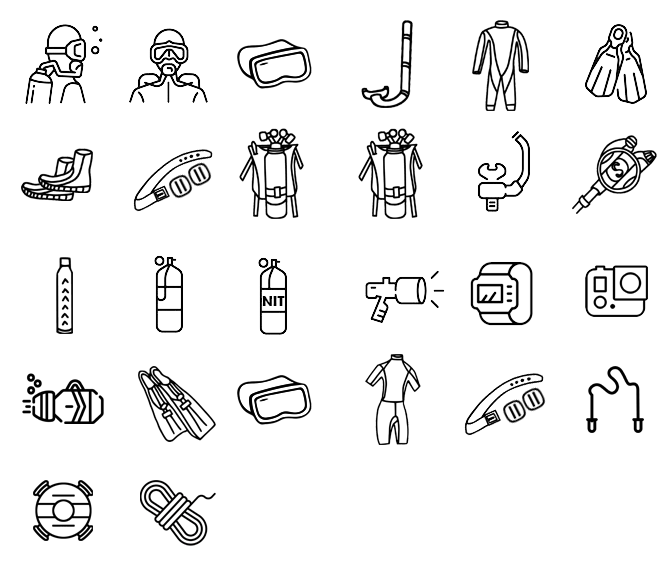
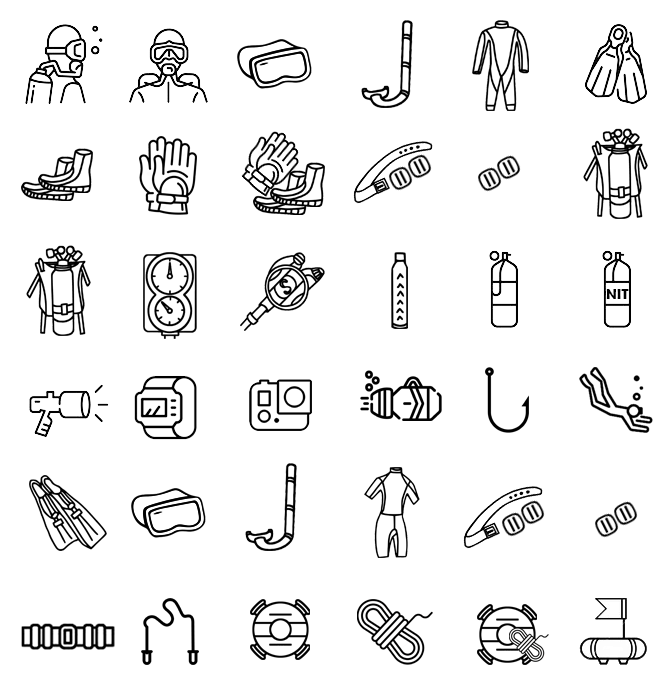
fix

diff --git a/frontend_mobile/src/components/CenterDetailPage2.vue b/frontend_mobile/src/components/CenterDetailPage2.vue
@@ -544,6 +544,49 @@
                             <i class="ico_equipt26 icon-equiptment"></i>
                             <p class="span_feature text-center">로프</p>
                         </div>
+
+
+                        <div class="ico_equipt col-3">
+                            <i class="ico_equipt27 icon-equiptment"></i>
+                            <p class="span_feature text-center">프리 벨트</p>
+                        </div>
+                        <div class="ico_equipt col-3">
+                            <i class="ico_equipt28 icon-equiptment"></i>
+                            <p class="span_feature text-center">랜야드</p>
+                        </div>
+                        <div class="ico_equipt col-3">
+                            <i class="ico_equipt29 icon-equiptment"></i>
+                            <p class="span_feature text-center">부이</p>
+                        </div>
+                        <div class="ico_equipt col-3">
+                            <i class="ico_equipt30 icon-equiptment"></i>
+                            <p class="span_feature text-center">로프</p>
+                        </div>
+
+                        <div class="ico_equipt col-3">
+                            <i class="ico_equipt31 icon-equiptment"></i>
+                            <p class="span_feature text-center">프리 벨트</p>
+                        </div>
+                        <div class="ico_equipt col-3">
+                            <i class="ico_equipt32 icon-equiptment"></i>
+                            <p class="span_feature text-center">랜야드</p>
+                        </div>
+                        <div class="ico_equipt col-3">
+                            <i class="ico_equipt33 icon-equiptment"></i>
+                            <p class="span_feature text-center">부이</p>
+                        </div>
+                        <div class="ico_equipt col-3">
+                            <i class="ico_equipt34 icon-equiptment"></i>
+                            <p class="span_feature text-center">로프</p>
+                        </div>
+                        <div class="ico_equipt col-3">
+                            <i class="ico_equipt35 icon-equiptment"></i>
+                            <p class="span_feature text-center">부이</p>
+                        </div>
+                        <div class="ico_equipt col-3">
+                            <i class="ico_equipt36 icon-equiptment"></i>
+                            <p class="span_feature text-center">로프</p>
+                        </div>
                         
                     </div>
                 </div>
@@ -1343,32 +1386,43 @@ export default {
 .icon-service {overflow: hidden;display: block;margin-left: 11px;background-image: url(/static/images/wedive_service2.png);background-repeat: no-repeat;-webkit-background-size: 270px 200px;background-size: 270px 200px;}
 
 .ico_equipt {}
-.ico_equipt1 {width: 60px;height: 63px;background-position: 0px 0px;}
-.ico_equipt2 {width: 60px;height: 63px;background-position: -56px 0px;}
-.ico_equipt3 {width: 60px;height: 63px;background-position: -112px 0px;}
-.ico_equipt4 {width: 60px;height: 63px;background-position: -168px 0px;}
-.ico_equipt5 {width: 60px;height: 63px;background-position: -224px 0px;}
-.ico_equipt6 {width: 60px;height: 63px;background-position: -280px 0px;}
-.ico_equipt7 {width: 60px;height: 63px;background-position: 0px -60px;}
-.ico_equipt8 {width: 60px;height: 63px;background-position: -56px -60px;}
-.ico_equipt9 {width: 60px;height: 63px;background-position: -112px -60px;}
-.ico_equipt10 {width: 60px;height: 63px;background-position: -168px -60px;}
-.ico_equipt11 {width: 60px;height: 63px;background-position: -222px -60px;}
-.ico_equipt12 {width: 60px;height: 63px;background-position: -280px -60px;}
-
-.ico_equipt13 {width: 60px;height: 63px;background-position: 0px -118px;}
-.ico_equipt14 {width: 60px;height: 63px;background-position: -56px -118px;}
-.ico_equipt15 {width: 60px;height: 63px;background-position: -112px -118px;}
-.ico_equipt16 {width: 60px;height: 63px;background-position: -168px -118px;}
-.ico_equipt17 {width: 60px;height: 63px;background-position: -224px -118px;}
-.ico_equipt18 {width: 60px;height: 63px;background-position: -280px -118px;}
-.ico_equipt19 {width: 60px;height: 63px;background-position: 0px -176px;}
-.ico_equipt20 {width: 60px;height: 63px;background-position: -56px -176px;}
-.ico_equipt21 {width: 60px;height: 63px;background-position: -112px -176px;}
-.ico_equipt22 {width: 60px;height: 63px;background-position: -168px -176px;}
-.ico_equipt23 {width: 60px;height: 63px;background-position: -224px -176px;}
-.ico_equipt24 {width: 60px;height: 63px;background-position: -280px -176px;}
-.icon-equiptment {overflow: hidden;display: block;margin-left: 3px;background-image: url(/static/images/wedive_equiptment2.png);background-repeat: no-repeat;-webkit-background-size: 335px 290px;background-size: 335px 290px;}
+.ico_equipt1 {width: 60px;height: 63px;background-position: 0px 3px;}
+.ico_equipt2 {width: 60px;height: 63px;background-position: -56px 3px;}
+.ico_equipt3 {width: 60px;height: 63px;background-position: -112px 3px;}
+.ico_equipt4 {width: 60px;height: 63px;background-position: -168px 3px;}
+.ico_equipt5 {width: 60px;height: 63px;background-position: -224px 3px;}
+.ico_equipt6 {width: 60px;height: 63px;background-position: -280px 3px;}
+.ico_equipt7 {width: 60px;height: 63px;background-position: 0px -54px;}
+.ico_equipt8 {width: 60px;height: 63px;background-position: -56px -54px;}
+.ico_equipt9 {width: 60px;height: 63px;background-position: -112px -54px;}
+.ico_equipt10 {width: 60px;height: 63px;background-position: -168px -54px;}
+.ico_equipt11 {width: 60px;height: 63px;background-position: -222px -56px;}
+.ico_equipt12 {width: 60px;height: 63px;background-position: -280px -54px;}
+.ico_equipt13 {width: 60px;height: 63px;background-position: 0px -110px;}
+.ico_equipt14 {width: 60px;height: 63px;background-position: -56px -110px;}
+.ico_equipt15 {width: 60px;height: 63px;background-position: -112px -110px;}
+.ico_equipt16 {width: 60px;height: 63px;background-position: -168px -110px;}
+.ico_equipt17 {width: 60px;height: 63px;background-position: -224px -110px;}
+.ico_equipt18 {width: 60px;height: 63px;background-position: -280px -110px;}
+.ico_equipt19 {width: 60px;height: 63px;background-position: 0px -168px;}
+.ico_equipt20 {width: 60px;height: 63px;background-position: -56px -170px;}
+.ico_equipt21 {width: 60px;height: 63px;background-position: -112px -168px;}
+.ico_equipt22 {width: 60px;height: 63px;background-position: -168px -168px;}
+.ico_equipt23 {width: 60px;height: 63px;background-position: -224px -168px;}
+.ico_equipt24 {width: 60px;height: 63px;background-position: -280px -168px;}
+.ico_equipt25 {width: 60px;height: 63px;background-position: 0px -224px;}
+.ico_equipt26 {width: 60px;height: 63px;background-position: -56px -224px;}
+.ico_equipt27 {width: 60px;height: 63px;background-position: -112px -224px;}
+.ico_equipt28 {width: 60px;height: 63px;background-position: -168px -224px;}
+.ico_equipt29 {width: 60px;height: 63px;background-position: -224px -224px;}
+.ico_equipt30 {width: 60px;height: 63px;background-position: -280px -224px;}
+.ico_equipt31 {width: 60px;height: 63px;background-position: 0px -280px;}
+.ico_equipt32 {width: 60px;height: 63px;background-position: -58px -280px;}
+.ico_equipt33 {width: 60px;height: 63px;background-position: -112px -280px;}
+.ico_equipt34 {width: 60px;height: 63px;background-position: -168px -280px;}
+.ico_equipt35 {width: 60px;height: 63px;background-position: -224px -280px;}
+.ico_equipt36 {width: 60px;height: 63px;background-position: -280px -280px;}
+.icon-equiptment {overflow: hidden;display: block;margin-left: 3px;background-image: url(/static/images/assets/wedive_equiptment2.png);background-repeat: no-repeat;-webkit-background-size: 335px 350px;background-size: 335px 350px;}
 
 .wedive-ul {width: 100%;list-style:none;display: inline-block;margin-bottom: 0;padding-left: 5px !important;padding-right: 5px !important;}
 .wedive-ul > li {float: left;width: 50%;}

diff --git a/frontend_mobile/src/components/CenterDetailPage.vue b/frontend_mobile/src/components/CenterDetailPage.vue
@@ -1390,7 +1390,6 @@ export default {
 .ico_equipt10 {width: 60px;height: 63px;background-position: -168px -54px;}
 .ico_equipt11 {width: 60px;height: 63px;background-position: -222px -56px;}
 .ico_equipt12 {width: 60px;height: 63px;background-position: -280px -54px;}
-
 .ico_equipt13 {width: 60px;height: 63px;background-position: 0px -110px;}
 .ico_equipt14 {width: 60px;height: 63px;background-position: -56px -110px;}
 .ico_equipt15 {width: 60px;height: 63px;background-position: -112px -110px;}
@@ -1398,14 +1397,25 @@ export default {
 .ico_equipt17 {width: 60px;height: 63px;background-position: -224px -110px;}
 .ico_equipt18 {width: 60px;height: 63px;background-position: -280px -110px;}
 .ico_equipt19 {width: 60px;height: 63px;background-position: 0px -168px;}
-.ico_equipt20 {width: 60px;height: 63px;background-position: -56px -168px;}
+.ico_equipt20 {width: 60px;height: 63px;background-position: -56px -170px;}
 .ico_equipt21 {width: 60px;height: 63px;background-position: -112px -168px;}
 .ico_equipt22 {width: 60px;height: 63px;background-position: -168px -168px;}
 .ico_equipt23 {width: 60px;height: 63px;background-position: -224px -168px;}
 .ico_equipt24 {width: 60px;height: 63px;background-position: -280px -168px;}
 .ico_equipt25 {width: 60px;height: 63px;background-position: 0px -224px;}
 .ico_equipt26 {width: 60px;height: 63px;background-position: -56px -224px;}
-.icon-equiptment {overflow: hidden;display: block;margin-left: 3px;background-image: url(/static/images/assets/wedive_equiptment2.png);background-repeat: no-repeat;-webkit-background-size: 335px 290px;background-size: 335px 290px;}
+.ico_equipt27 {width: 60px;height: 63px;background-position: -112px -224px;}
+.ico_equipt28 {width: 60px;height: 63px;background-position: -168px -224px;}
+.ico_equipt29 {width: 60px;height: 63px;background-position: -224px -224px;}
+.ico_equipt30 {width: 60px;height: 63px;background-position: -280px -224px;}
+.ico_equipt31 {width: 60px;height: 63px;background-position: 0px -280px;}
+.ico_equipt32 {width: 60px;height: 63px;background-position: -58px -280px;}
+.ico_equipt33 {width: 60px;height: 63px;background-position: -112px -280px;}
+.ico_equipt34 {width: 60px;height: 63px;background-position: -168px -280px;}
+.ico_equipt35 {width: 60px;height: 63px;background-position: -224px -280px;}
+.ico_equipt36 {width: 60px;height: 63px;background-position: -280px -280px;}
+
+.icon-equiptment {overflow: hidden;display: block;margin-left: 3px;background-image: url(/static/images/assets/wedive_equiptment2.png);background-repeat: no-repeat;-webkit-background-size: 335px 350px;background-size: 335px 350px;}
 
 .wedive-ul {width: 100%;list-style:none;display: inline-block;margin-bottom: 0;padding-left: 5px !important;padding-right: 5px !important;}
 .wedive-ul > li {float: left;width: 50%;}

diff --git a/frontend/src/views/dashboard/wedive/CenterListAddNew.vue b/frontend/src/views/dashboard/wedive/CenterListAddNew.vue
@@ -1401,7 +1401,7 @@ export default {
       freeEnterenceOptions: ["1", "2", "3", "4", "5"],
       openingHoursOptions: ["1부", "2부", "3부", "4부", "5부", "매일", "평일", "주말", "월-토", "일요일", "월요일", "화요일", "수요일", "목요일", "금요일", "토요일", "공휴일", "휴게시간"],
       institutionOptions: ["AIDA", "CMAS", "PADI", "SSI", "AA", "KF", "UTA", "RAID", "SNSI", "MOLCHANOVA", "AFIA"],
-      rentalOptions: ["스킨스쿠버 세트", "스킨 세트", "마스크", "스노클", "잠수복", "오리발(핀)", "부츠", "웨이트&벨트", "스쿠버 세트", "부력조절기", "레귤레이터", "보조호흡기", "SMB", "공기통", "나이트록스", "라이트", "다이브컴퓨터", "카메라", "DPV", "프리 핀", "프리 마스크", "프리 잠수복", "프리 벨트", "랜야드", "부이", "로프"],
+      rentalOptions: ["스킨스쿠버 세트", "스킨 세트", "마스크", "스노클", "잠수복", "오리발(핀)", "부츠", "장갑", "부츠&장갑", "웨이트&벨트", "웨이트", "스쿠버 세트", "부력조절기", "레귤레이터", "보조호흡기", "SMB", "공기통", "나이트록스", "라이트", "다이브컴퓨터", "카메라", "DPV", "조류걸이", "프리 세트", "프리 핀", "프리 마스크", "프리 스노클", "프리 잠수복", "프리 웨이트&벨트", "프리 웨이트", "바텀웨이트", "랜야드", "부이", "로프", "부이&로프", "고정부이"],
       backgroundItems: [],
       youtubeItems: [],
       referenceItems: [],

diff --git a/frontend_mobile/src/router/index.js b/frontend_mobile/src/router/index.js
@@ -12,6 +12,7 @@ import UserProfilePage from '@/components/UserProfilePage'
 import UserCreatePage from '@/components/UserCreatePage'
 import CenterHomePage from '@/components/CenterHomePage'
 import CenterDetailPage from '@/components/CenterDetailPage'
+import CenterDetailPage2 from '@/components/CenterDetailPage2'
 import CenterListPage from '@/components/CenterListPage'
 import CenterListMapPage from '@/components/CenterListMapPage'
 import CoursePage from '@/components/CoursePage'
@@ -92,6 +93,11 @@ export default new Router({
       name: 'CenterDetailPage',
       props: true,
       component: CenterDetailPage
+    },
+    {
+      path: '/center2',
+      name: 'CenterDetailPage2',
+      component: CenterDetailPage2
     },
     {
       path: '/center_list',
